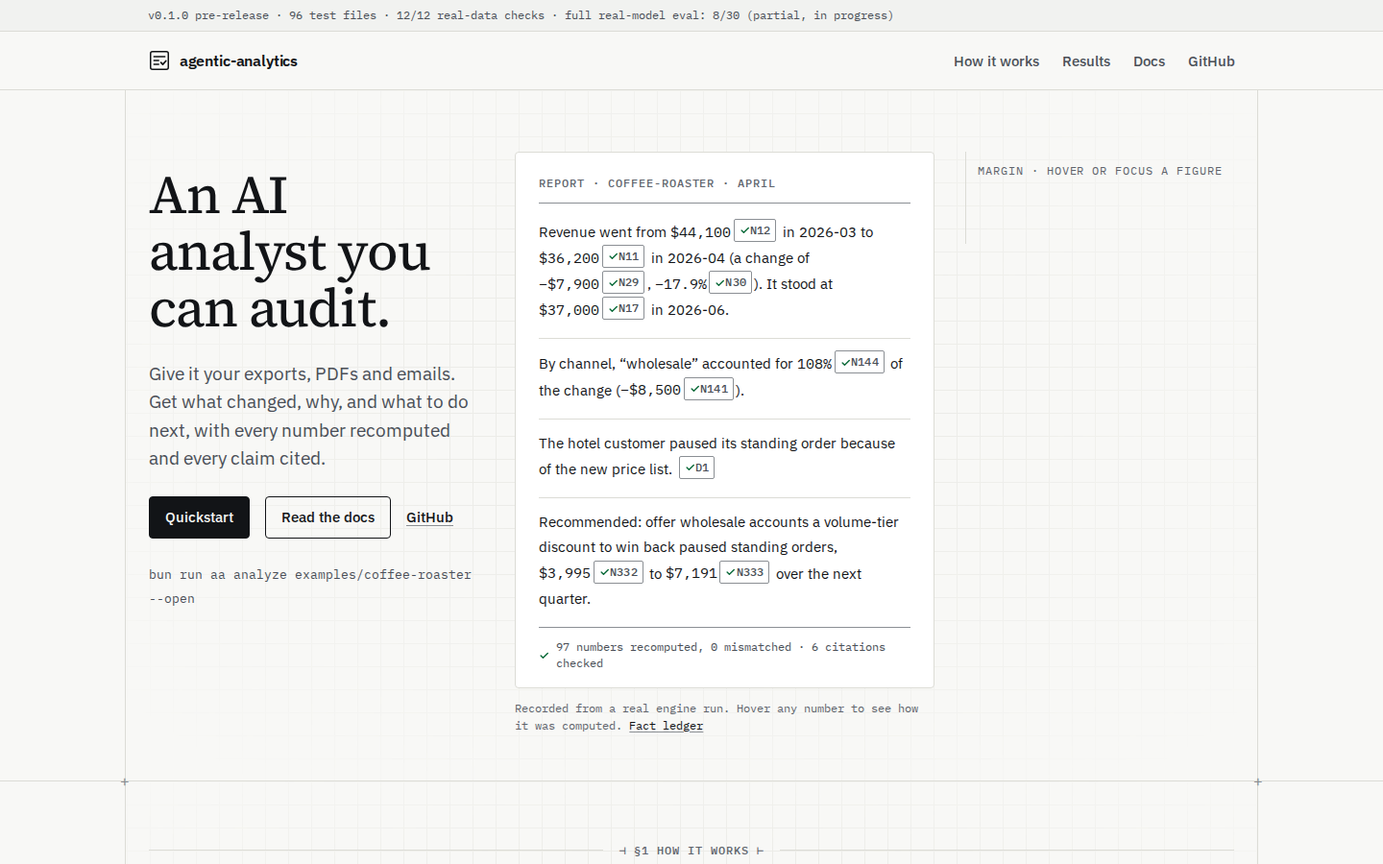
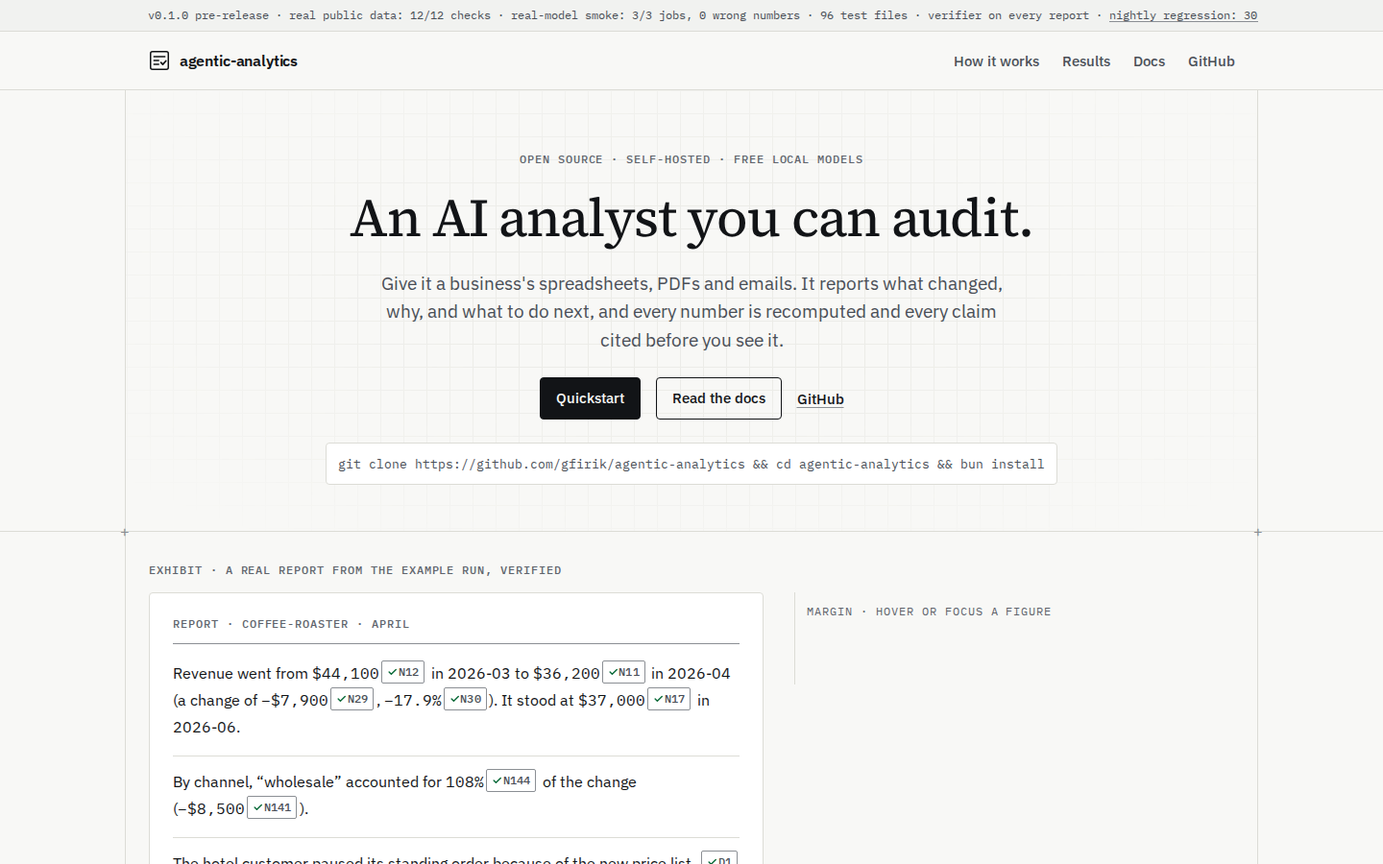
feat(site): self-demonstrating hero walkthrough: step screenshots, recording, no layout shift on the font swap, docs and STATE

diff --git a/apps/docs/scripts/site-screenshots.ts b/apps/docs/scripts/site-screenshots.ts
@@ -2,14 +2,17 @@
 // at desktop (1440) and mobile (390) widths. The site is light only. Serve the build first
 // (`bun run --filter @agentic-analytics/docs preview`).
 //   tsx scripts/site-screenshots.ts [--url http://127.0.0.1:4321/agentic-analytics] [--out dir] [--full] [--only name]
-//   tsx scripts/site-screenshots.ts --record   → hero.webm and hero.gif: the hero's verification replay, then a
-//                                                figure's margin note opening on hover (needs ffmpeg for the GIF)
+//   tsx scripts/site-screenshots.ts --record   → hero.gif: the hero's verification as it comes into view, the
+//                                                scroll-linked walkthrough step by step, a hover, then Replay
+//                                                (needs ffmpeg; without it hero.webm is kept)
+// Besides the pages (rendered with reduced motion, so the hero's walkthrough shows as its static list), it captures
+// the live walkthrough: hero-step-<k>-desktop.png at each step (scrolled) and hero-step-<k>-mobile.png (timed).
 // PW_CHANNEL=chrome uses an installed Chrome instead of Playwright's own build.
 import { execFileSync } from "node:child_process";
 import { mkdirSync, readdirSync, renameSync, rmSync } from "node:fs";
 import { join } from "node:path";
 import { parseArgs } from "node:util";
-import { chromium } from "@playwright/test";
+import { chromium, type Page } from "@playwright/test";
 
 const { values } = parseArgs({
   options: {
@@ -34,6 +37,22 @@ const sizes = [
   { name: "mobile", width: 390, height: 844 },
 ];
 
+/** The scroll position where the walkthrough's sticky section starts (its verification phase). */
+const walkStart = (page: Page) =>
+  page.evaluate(() => {
+    const w = document.querySelector("[data-exhibit]") as HTMLElement;
+    const s = document.querySelector(".aa-walk-stick") as HTMLElement;
+    return window.scrollY + w.getBoundingClientRect().top - Number.parseFloat(getComputedStyle(s).top || "0");
+  });
+/** Scrolls to y over ~700 ms in small steps, as a reader's wheel would (instant jumps look like cuts in a recording). */
+const smoothScroll = async (page: Page, y: number) => {
+  const from = await page.evaluate(() => window.scrollY);
+  for (let i = 1; i <= 14; i++) {
+    await page.evaluate((v) => window.scrollTo(0, v), from + ((y - from) * i) / 14);
+    await page.waitForTimeout(50);
+  }
+};
+
 const browser = await chromium.launch(process.env.PW_CHANNEL ? { channel: process.env.PW_CHANNEL } : {});
 try {
   if (values.record) {
@@ -46,14 +65,22 @@ try {
     });
     const page = await ctx.newPage();
     await page.goto(`${base}/`, { waitUntil: "networkidle" });
-    await page.waitForTimeout(3200);
-    for (const id of ["N30", "N12", "D1"]) {
-      const chip = page.locator(`.aa-exhibit a.aa-chip[data-note="${id}"]`);
-      await chip.hover();
-      await page.waitForTimeout(2200);
+    await page.waitForTimeout(1200);
+    // Scroll the exhibit into view (the verification runs), then step through the walkthrough by scrolling.
+    const start = await walkStart(page);
+    await smoothScroll(page, start);
+    await page.waitForTimeout(3000);
+    const n = (await page.locator(".aa-walk-cap").count()) - 1;
+    for (let k = 1; k <= n; k++) {
+      await smoothScroll(page, start + k * (760 / 2) + 20);
+      await page.waitForTimeout(2600);
     }
+    // Hover still explores any figure; Replay starts over.
+    await page.locator('.aa-exhibit a.aa-chip[data-note="N332"]').hover();
+    await page.waitForTimeout(1800);
     await page.mouse.move(10, 10);
-    await page.waitForTimeout(600);
+    await page.locator("[data-walk-replay]").click();
+    await page.waitForTimeout(3200);
     await ctx.close();
     const [video] = readdirSync(tmp).filter((f) => f.endsWith(".webm"));
     if (!video) throw new Error("no video recorded");
@@ -67,14 +94,39 @@ try {
         "-i",
         join(out, "hero.webm"),
         "-vf",
-        "fps=10,scale=960:-1:flags=lanczos,split[a][b];[a]palettegen=max_colors=48:stats_mode=diff[p];[b][p]paletteuse=dither=none:diff_mode=rectangle",
+        "fps=8,scale=840:-1:flags=lanczos,split[a][b];[a]palettegen=max_colors=32:stats_mode=diff[p];[b][p]paletteuse=dither=none:diff_mode=rectangle",
         join(out, "hero.gif"),
       ]);
       rmSync(join(out, "hero.webm"));
     } catch {
       process.stdout.write("ffmpeg not available: kept hero.webm only\n");
     }
-  } else
+  } else {
+    // The live walkthrough, motion allowed: each step on desktop (scrolled) and on mobile (timed, stepped by hand here).
+    for (const s of sizes) {
+      if (values.only && !`hero-step-${s.name}`.includes(values.only as string)) continue;
+      const ctx = await browser.newContext({ viewport: { width: s.width, height: s.height }, deviceScaleFactor: 1 });
+      const page = await ctx.newPage();
+      await page.goto(`${base}/`, { waitUntil: "networkidle" });
+      await page.evaluate(async () => {
+        await document.fonts.ready;
+      });
+      const n = (await page.locator(".aa-walk-cap").count()) - 1;
+      const start = await walkStart(page);
+      for (let k = 0; k <= n; k++) {
+        if (s.name === "desktop") await page.evaluate((y) => window.scrollTo(0, y), start + k * (s.height / 2) + 20);
+        else if (k === 0) await page.locator(".aa-walk-stick").scrollIntoViewIfNeeded();
+        else {
+          // At the notes, under the sticky step bar; stepping by hand from the first step (the timer stops).
+          await page.locator(".aa-notes").evaluate((el) => el.scrollIntoView({ block: "center" }));
+          if (k === 1) while (await page.locator("[data-walk-prev]").isEnabled()) await page.locator("[data-walk-prev]").click();
+          await page.locator("[data-walk-next]").click();
+        }
+        await page.waitForTimeout(k === 0 ? 3200 : 500);
+        await page.screenshot({ path: join(out, `hero-step-${k}-${s.name}.png`) });
+      }
+      await ctx.close();
+    }
     for (const p of pages)
       for (const s of sizes) {
         const name = `${p.name}-${s.name}`;
@@ -92,6 +144,7 @@ try {
         await page.screenshot({ path: join(out, `${name}.png`), fullPage: Boolean(values.full) });
         await ctx.close();
       }
+  }
 } finally {
   await browser.close();
 }

diff --git a/scripts/site/browser/site.spec.ts b/scripts/site/browser/site.spec.ts
@@ -182,6 +182,7 @@ test("hero: scrolling steps through the walkthrough on desktop, each step openin
   });
   for (let k = 1; k <= steps.length; k++) {
     await page.evaluate((y) => window.scrollTo(0, y), start + k * 450 + 20);
+    await expect(page.locator(".aa-walk-stick")).toBeInViewport({ ratio: 1 });
     await expect(cap(k)).toBeVisible();
     await expect(cap(k)).toContainText(`${k}/${steps.length}`);
     await expect(open).toHaveCount(1);
@@ -210,7 +211,14 @@ test("hero: scrolling steps through the walkthrough on desktop, each step openin
 test("hero: under 900 px the walkthrough advances by itself, its notes below the figure, without moving the page", async ({ page }) => {
   await page.setViewportSize({ width: 390, height: 844 });
   await page.goto(LANDING);
+  // The figures verify as the exhibit comes into view; the steps advance once the notes below it are on screen.
   await page.locator(".aa-walk-stick").scrollIntoViewIfNeeded();
+  await expect(page.locator("[data-exhibit]")).toHaveAttribute("data-anim", "done", { timeout: 4_000 });
+  await expect(page.locator('.aa-walk-cap[data-step="0"]')).toBeVisible();
+  await page.locator(".aa-notes").evaluate((el) => el.scrollIntoView({ block: "center" }));
+  // The step bar stays on screen while the reader is at the notes.
+  await page.mouse.wheel(0, 300);
+  await expect(page.locator(".aa-walk-bar")).toBeInViewport({ ratio: 1 });
   const cap1 = page.locator('.aa-walk-cap[data-step="1"]');
   await expect(cap1).toBeVisible({ timeout: 6_000 });
   const open = page.locator(".aa-note.is-open");
@@ -226,6 +234,33 @@ test("hero: under 900 px the walkthrough advances by itself, its notes below the
   await expect(page.locator('.aa-walk-cap[data-step="3"]')).toBeVisible();
   await page.waitForTimeout(5_000);
   await expect(page.locator('.aa-walk-cap[data-step="3"]')).toBeVisible();
+});
+
+test("landing: no box moves while the fonts arrive late (390, 1440 px)", async ({ page }) => {
+  await page.addInitScript(() => {
+    const w = window as unknown as { __cls: number };
+    w.__cls = 0;
+    new PerformanceObserver((list) => {
+      for (const e of list.getEntries() as unknown as { value: number; hadRecentInput: boolean }[])
+        if (!e.hadRecentInput) w.__cls += e.value;
+    }).observe({ type: "layout-shift", buffered: true });
+  });
+  // Every font held back 1.5 s, far longer than the preloaded faces take: text first paints in the fallback faces,
+  // then swaps. Only glyphs re-centre by a few pixels inside their boxes (about 0.01 at 390 px); a box that changed
+  // height on the swap (a wrapping strip or install line) scored 0.15. Lighthouse, with the preloads, measures 0.
+  await page.route(/\.woff2$/, async (r) => {
+    await new Promise((ok) => setTimeout(ok, 1_500));
+    await r.continue();
+  });
+  for (const [width, height] of [
+    [390, 844],
+    [1440, 900],
+  ] as const) {
+    await page.setViewportSize({ width, height });
+    await page.goto(LANDING);
+    await page.waitForTimeout(3_500);
+    expect(await page.evaluate(() => (window as unknown as { __cls: number }).__cls), `${width} px`).toBeLessThan(0.02);
+  }
 });
 
 test("hero: with reduced motion the walkthrough is a static ruled list, every step's note shown", async ({ page }) => {

diff --git a/docs/progress/STATE.md b/docs/progress/STATE.md
@@ -36,6 +36,7 @@ Since 2026-10-16 (maintainer's instruction, from PR #15 on): post the spec-revie
 | M13h Real-run fixes (router cache, metric alias, DECIDE budget, partial results, Kaggle notebook, resource limits) | DONE | no | [#25](https://github.com/gfirik/agentic-analytics/pull/25), [#26](https://github.com/gfirik/agentic-analytics/pull/26), [#27](https://github.com/gfirik/agentic-analytics/pull/27), [#28](https://github.com/gfirik/agentic-analytics/pull/28), [#29](https://github.com/gfirik/agentic-analytics/pull/29), [#30](https://github.com/gfirik/agentic-analytics/pull/30), [#31](https://github.com/gfirik/agentic-analytics/pull/31) | `bunx vitest run packages/models/test/router.test.ts packages/models/test/fetch.test.ts packages/metrics/test/self-join.test.ts packages/core/test/drafted-metrics.test.ts packages/agent/test/budget.test.ts packages/models/test/budget.test.ts evals/runner/test/cli.test.ts evals/runner/test/kaggle-notebook.test.ts scripts/test/evals-table.test.ts apps/cli/test/standalone.test.ts` | Fixes from real-model runs (docs/plans/m13h.md): a rate-limited route still serves cached answers (#25); construction_supplier-v1's `duplicate alias "m1"`: self-ratio and `x / x` drafts rejected with a reason, unique join aliases, `metrics.drafted.json` in every job folder, kept by `aa eval --keep-reports` (#26); small-model DECIDE input budget, printing_shop-v1 9,047 → 6,220 estimated tokens (#28); Groq full pass after the fixes published partial, 8 of 30 jobs, and `scripts/eval-daily.sh` (one pass a day) replaces the 30-minute retry loop (#30); `aa eval --label/--note/--only` (a chunk needs a `--results-dir` outside the checkout's evals/results), `bun run eval:merge` (one row from chunks, real timings) and the Kaggle notebook evals/kaggle/full-suite-vllm.ipynb (Qwen3.8-27B 4-bit on vLLM 0.30, 2×T4, resumable), its run DEFERRED to the maintainer (#27); machine resource limits, one heavy job at a time (#29); Groq's OTPM 429 re-sent with a lower max_tokens, org ids masked in call records and errors (#31) |
 | M13i Website v2 ("the audited page") | DONE | no | [#32](https://github.com/gfirik/agentic-analytics/pull/32) | `bun run --filter @agentic-analytics/docs build && bun run site:check:browser`; `bunx vitest run scripts/test/landing-exhibit.test.ts scripts/test/site-light.test.ts scripts/test/learn.test.ts`; `tsx apps/docs/scripts/site-screenshots.ts [--record]` | The maintainer's design spec (docs/design/website-v2.md, merged into apps/docs/DESIGN.md and deleted): light only (no dark tokens, theme control or colour-scheme queries); the framed graph-paper landing page with a generated status strip; the hero exhibit (the recorded coffee-roaster report, verified figure by figure once, ≤ 2.5 s, none under reduced motion; a margin note per figure with its SQL or function and the cited sheet rows read back from the run); §1–§4; Tufte-style docs and Learn (240px sidebar, ~64ch serif article, a margin column with the sticky TOC from 1200px), `<Sidenote>`/`<MarginNote>`, epigraphs on the stage pages. Lighthouse (simulated mobile): `/` 99/100/100/100, `/learn/stages/analysis/` 95/100/100/100 |
 | M13j Status wording (proven results lead) | DONE | no | [#33](https://github.com/gfirik/agentic-analytics/pull/33) | `bun run readme:assets && bunx vitest run scripts/test/evals-table.test.ts scripts/test/landing-exhibit.test.ts`; `bun run --filter @agentic-analytics/docs build && bun run site:check:browser` | Maintainer instruction: the site strip and the README no longer lead with the full real-model eval's partial pass. Both lead with what is proven: real public data 12/12 checks, the real-model smoke run (3/3 jobs, 0 wrong numbers), the test files, the verifier on every report. The 30-business suite is described as the nightly regression check (one scheduled pass a night; the latest published pass), its latest numbers linked (strip → landing §3; README status → "Real-model runs"), never headlined. The README status block is generated (`statusBlock()`, scripts/readme-assets/assets.ts) from evals/results; landing §3 lists real public data first. Final wording changes after the analyst-grade plan |
+| M13k Hero restructure and self-demonstrating exhibit | DONE | no | PR link added after open | `bun run --filter @agentic-analytics/docs build && bun run site:check:browser`; `bunx vitest run scripts/test/landing-exhibit.test.ts`; `tsx apps/docs/scripts/site-screenshots.ts [--record]` | Maintainer instruction: hex.tech's structure. A centred statement block (eyebrow, serif headline, two plain lines, actions, the install line), then the exhibit as its own framed section, full width. The exhibit demonstrates itself: it verifies as it comes into view, then a guided walkthrough of 4 key figures (`walkthrough()`, chosen by role from the run: the change, its SQL input with sheet rows, the driver, the quoted cause) opens each margin note under a step indicator ("1/4 Revenue fell −17.9% → how it was computed"). Scroll-linked with a sticky section from 900×704 px; timed on smaller screens while the notes are on screen, under a sticky step bar; prev, next and replay. Static ruled list under reduced motion or without JS. No box moves on the font swap (strip one line, install line one line in a box, Plex Mono preloaded). Lighthouse (simulated mobile): `/` 97/100/100/100 with CLS 0 (three runs), `/learn/stages/analysis/` 95/100/100/100 |
 
 Order: M0 → M1 → M2 → M3 → M4 → M5 → M6 → M7 → M8 → M9 → M10 → M11 → M12. In autopilot it runs sequentially. Parallel worktrees are an interactive option only.
 
@@ -306,6 +307,9 @@ These are checks that need something this machine doesn't have yet, such as a re
 - [M13i] The pipeline scene no longer autoplays anywhere on the site (v2: the hero exhibit is the one moment of motion; docs motion is user-triggered only); Play still loops it. The scene's own dark palette stays for the README GIF (GitHub dark mode) and is never requested by the site; scripts/test/site-light.test.ts excludes pipeline-scene.ts for that reason
 - [M13i] The sticky TOC shares the margin column with sidenotes and full-width figures: it has the page background and a height cap, notes scroll beneath it, and while a full-width figure passes under it the TOC steps aside (hidden) so the figure is never covered, and likewise for a sidenote beneath it (review round 1); without JS the TOC stays on top — apps/docs/src/components/starlight/TwoColumnContent.astro
 - [M13i] The landing page's fact ledger is collapsed until one of its rows is the link target (`:has(:target)`), so the chips still work without JS while the hero stays one screen; the margin note links to it
+- [M13k] The walkthrough has four steps: the change, its current-period SQL input (the step that shows SQL and sheet rows; the change itself is a function of two SQL facts), the driver, the quoted cause. The recommendation is not a step: its note is a scenario function, and the four tell what changed and why. Hover and focus still open it — apps/docs/scripts/landing-data.ts walkthrough()
+- [M13k] Scroll drives the steps only where the section can stay on screen (≥ 900 px wide and ≥ 704 px tall). Smaller screens advance on a timer (4.5 s a step) while the notes are on screen, because a sticky section taller than a phone screen can't show the figure and its note together; stepping by hand stops the timer — DESIGN.md §6
+- [M13k] The install line under the actions is `git clone … && cd agentic-analytics && bun install` (the spec asks for an install line; the analyze command is in §4 Quickstart), one line in a hairline box that scrolls sideways on phones. The status strip also stays one line and scrolls sideways under 1180 px. Both wrapped differently in the fallback mono face and moved the page when Plex Mono arrived (CLS 0.05 in Lighthouse); Plex Mono 400 is now preloaded on the landing page too — apps/docs/src/components/site/StatusStrip.astro, FontPreloads.astro
 
 ## Known gaps carried forward
 

diff --git a/apps/docs/DESIGN.md b/apps/docs/DESIGN.md
@@ -123,7 +123,7 @@ The scale (rem, root 16px; mobile values apply under 640px):
 
   This is the "working paper" structure, and it replaces cards. Under 720px only the hairlines remain.
 - **Graph-paper field.** A 24px grid in `--aa-grid`, behind the hero and the section heads only. It fades to the plain page at the edges through a CSS mask (no image) and is never behind long text.
-- **Status strip.** One quiet mono line above the header, on `surface`, not a scrolling marquee. Proven results lead: the release, the real public data checks, the real-model smoke run, the test files and the verifier. The generated-business suite comes last as the nightly regression check, a link to §3's results, never a headline figure (a partial pass reads as failure next to proven results). Its values come from generated data (`statusStrip()` in `scripts/landing-data.ts`).
+- **Status strip.** One quiet mono line above the header, on `surface`, not a scrolling marquee. On narrow screens it stays one line and scrolls sideways (keyboard-focusable) instead of wrapping, so the font swap can't move the page. Proven results lead: the release, the real public data checks, the real-model smoke run, the test files and the verifier. The generated-business suite comes last as the nightly regression check, a link to §3's results, never a headline figure (a partial pass reads as failure next to proven results). Its values come from generated data (`statusStrip()` in `scripts/landing-data.ts`).
 - **Sections, in order** (nothing else: no testimonials, logo wall or newsletter):
   1. Status strip, header, then the hero, in hex.tech's structure rather than two columns:
      - a **centred statement block**: a mono eyebrow label, the serif headline, one or two lines on what it is and what it solves, the actions, and the install line;
@@ -170,8 +170,8 @@ The scale (rem, root 16px; mobile values apply under 640px):
   - **The verification replay.** As the exhibit comes into view, and only without `prefers-reduced-motion`, the figures are verified one by one, top to bottom: each chip's box draws in, then the green check appears in the space it already holds (~250ms per figure, ≤ 2.5s in all). An inline script holds the figures unverified before first paint. With reduced motion or no JS, the server-rendered verified state is all there is.
   - **The guided walkthrough.** The exhibit demonstrates itself, with no hover needed. After the verification it steps through the story's key figures, opening each one's margin note under a step indicator (`1/4 Revenue fell −17.9% → how it was computed`), with a progress rule and previous, next and replay buttons.
     - The steps are chosen from the run's data by role (`walkthrough()` in `scripts/landing-data.ts`), never by typed id: the headline change and how it was computed; its current-period SQL input with the SQL and the sheet rows it read; the driver's share of the change; the quoted document.
-    - From 900px wide and 640px tall, scroll drives the steps: the exhibit section is sticky while a track of half a screen per step (plus one for the verification) scrolls past. Previous and next scroll to their step.
-    - On smaller screens the same steps advance every few seconds while the exhibit is on screen, the notes below the figure; stepping by hand stops the timer. The notes share one grid cell as tall as the tallest, so stepping never moves the page.
+    - From 900px wide and 704px tall, scroll drives the steps: the exhibit section is sticky while a track of half a screen per step (plus one for the verification) scrolls past. Previous and next scroll to their step.
+    - On smaller screens the same steps advance every few seconds while the notes (below the figure) are on screen, under a sticky step bar; stepping by hand stops the timer. The notes share one grid cell as tall as the tallest, so stepping never moves the page.
     - The step's figure takes the `mark` wash in the text, and its chip shows open.
     - Under reduced motion, or without JS, the steps are a static ruled list under the exhibit, each with its note; no sticky track, no step bar.
     - The walkthrough is switched on before first paint (`data-walk="live"`), so the track and the list never shift the layout.

diff --git a/docs/DOCS-SITE.md b/docs/DOCS-SITE.md
@@ -13,7 +13,7 @@ They share one design system, `apps/docs/DESIGN.md`. Its tokens live in `src/sty
 
 | Section | Pages |
 |---|---|
-| Landing page (`/`) | Website v2 (M13i, apps/docs/DESIGN.md): the status strip; the statement and the hero exhibit (the coffee-roaster report, verified figure by figure, with a margin note per figure); §1 how it works (the pipeline scene); §2 three proofs; §3 results as they are (model rows and real-data checks, partial runs labelled); §4 quickstart, binaries and the four doors |
+| Landing page (`/`) | Website v2 (M13i, apps/docs/DESIGN.md): the status strip; a centred statement block, then the hero exhibit as its own framed section (M13k: the coffee-roaster report, verified figure by figure as it comes into view, then a guided walkthrough of its key figures, each opening its margin note: scroll-linked on desktop, timed on small screens, a static list under reduced motion or without JS); §1 how it works (the pipeline scene); §2 three proofs; §3 results as they are (model rows and real-data checks, partial runs labelled); §4 quickstart, binaries and the four doors |
 | Start | What it is (1-minute read + animated pipeline), Quickstart (Docker / Bun / Ollama / free endpoint), Your first report (coffee-roaster walkthrough), Running on free models (the Models page, listed here since M13f) |
 | How it works | Pipeline overview (interactive, ported from `docs/assets/blueprint.html`); Ingest & table detection; Profiling & data quality; Metric layer; Detecting changes; Finding drivers (PVM, contribution, rate/mix, Simpson, DIFF), with worked examples and animated bar breakdowns; Documents lane (RAG: chunking, BM25, vectors, RRF, rerank, with a step-through visual); Web lane & privacy; Explain & causal grades; Decisions & impact ranges; The verifier (V1–V8 with a before/after draft example); Security & prompt injection |
 | Learn (M13g) | The beginner path, all on the coffee-roaster example: the big-picture overview (the pipeline animation and a map of every stage with its real in/out); ten stage guides (ingestion & profiling, metric layer, analysis, retrieval, web lane, planner, verifier, report & fact IDs, model router & free providers, security), each with the problem it solves, a step-through diagram, the ideas behind it, a try-it command, repo links and further reading; five tutorials (first file, confirm metrics, documents as evidence, Claude via MCP, evals on your own data); a glossary. Each guide links "Go deeper" to its How it works page |
@@ -32,7 +32,8 @@ They share one design system, `apps/docs/DESIGN.md`. Its tokens live in `src/sty
 - **Mermaid** for architecture and state diagrams.
 - **The hero exhibit** (`components/site/Exhibit.astro`, landing page):
   - It shows the first finding of the real coffee-roaster run, each number followed by its fact-ID chip.
-  - It replays its verification once, unless reduced motion is on.
+  - It replays its verification as it comes into view, unless reduced motion is on.
+  - It walks through its key figures by itself (M13k): the change, its SQL input and sheet rows, the driver, the quoted cause (`walkthrough()` in `scripts/landing-data.ts`, chosen by role from the run's data). Scroll drives the steps on desktop (a sticky section); smaller screens advance on a timer while the notes are on screen. Previous, next and replay are always there; reduced motion or no JS shows the steps as a static ruled list.
   - Hovering or focusing a figure opens its margin note: the SQL and parameters (or the function and its inputs), and the cited sheet rows.
   - A chip links to the fact's row in a static fact ledger, so it works without JS.
 - **`<Sidenote>` / `<MarginNote>`** (Learn, MDX): Tufte-style notes in the margin column, tap-to-expand under 1000px.

diff --git a/docs/plans/m13k.md b/docs/plans/m13k.md
@@ -1,0 +1,49 @@
+# M13k: hero restructure (hex.tech's structure) and a self-demonstrating exhibit
+
+Maintainer instruction (2026-10-19): follow hex.tech's structure, not just its style.
+
+- A centred statement block on top: eyebrow, serif headline, one or two plain lines on what it is and what it solves, actions, the install line. No two-column hero.
+- The report exhibit below it, full container width, as its own framed section.
+- Self-demonstrating, no hover needed: as it scrolls into view the numbers verify one by one, then a guided walkthrough steps through 3–4 key facts, opening each margin note (SQL + source rows) with a step indicator. Scroll drives the steps (sticky on desktop), with replay and prev/next. Hover and focus still explore.
+- Reduced motion / no JS: all steps as a static ruled list. Mobile: the same walkthrough stacked, notes below the figure.
+- Lighthouse ≥ 95, axe clean, no layout shift, light only.
+
+## Tasks
+
+1. `walkthrough()` (apps/docs/scripts/landing-data.ts): the steps chosen from the run's data by role, never by typed id:
+   1. the headline change;
+   2. its current-period SQL input (SQL + cited rows);
+   3. the driver's contribution and share;
+   4. the quoted document.
+
+   Written into exhibit.json.
+2. `ExhibitNote.astro`: the note body, shared by the margin column and the static list.
+3. `Exhibit.astro`: the step bar (caption, progress rule, ←, →, Replay), the sticky section and its track, and the static list. The script:
+   - runs the verification on view;
+   - maps scroll to steps on desktop;
+   - runs a timer on small screens while the notes are on screen;
+   - keeps hover, focus and pin.
+
+   An inline pre-paint script sets `data-walk="live"` only without reduced motion, so there is no layout shift.
+4. index.astro: the statement block and the exhibit sheet.
+5. DESIGN.md §2/§4/§6/§7, DOCS-SITE.md, STATE.
+6. Screenshots of each step (desktop, mobile) and the recording (`site-screenshots.ts`).
+
+## Tests
+
+- **Unit:** the walkthrough's steps by role against the recorded run, with no typed digits.
+- **Browser:**
+  - the verification runs on view;
+  - desktop scroll steps, each opening its note, with the section on screen, and prev/next/replay;
+  - mobile timed steps, notes below the figure, the sticky bar, no shift when stepping, manual stepping stops the timer;
+  - a static list under reduced motion;
+  - a static list without JS;
+  - no box moves while the fonts arrive late;
+  - axe and 360 px overflow (existing).
+- **Lighthouse** on `/` and on a Learn page.
+
+## Risks
+
+- **Scroll-jacking feel:** steps follow native scroll; nothing captures the wheel.
+- **Tall notes in a sticky section:** the section is centred with a 41rem extent, and scroll mode only applies from 704px tall.
+- **CLS from timed steps on mobile:** every note shares one grid cell as tall as the tallest, and the captions do the same.
